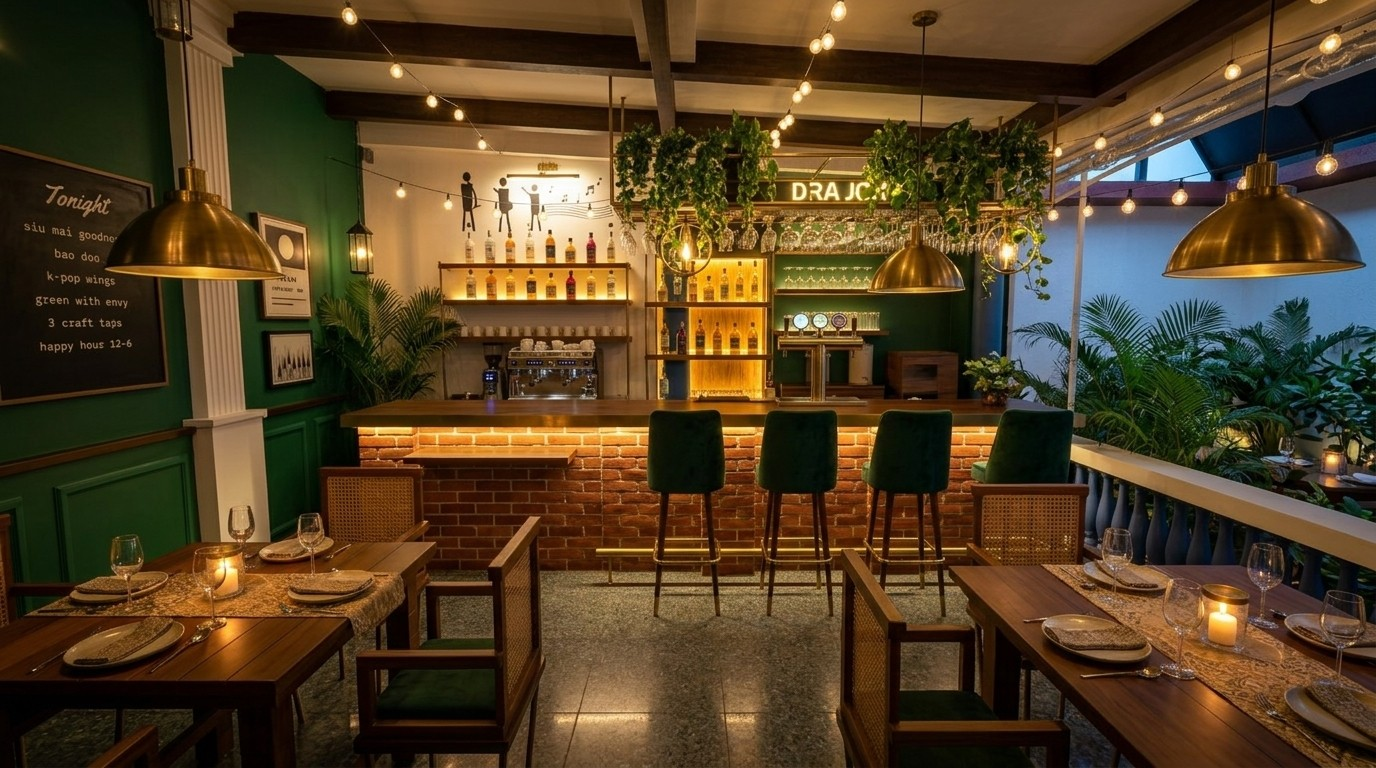
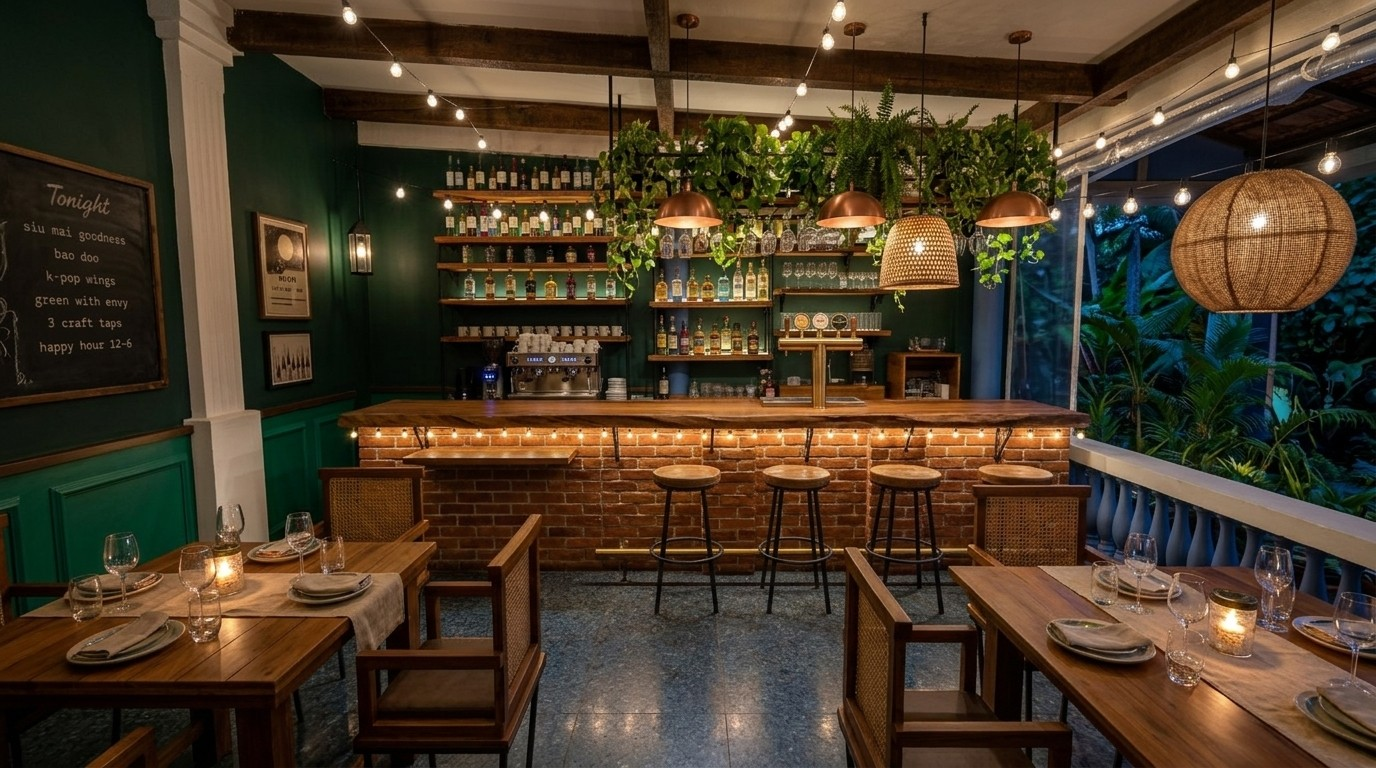
Decor page: bar redone in the garden-bar look (bottle wall, string-lit teak top, copper pendants, server station), new gate render

diff --git a/decor.html b/decor.html
@@ -92,7 +92,7 @@ footer a{color:var(--muted)}
 </div>
 
 <nav class="toc" aria-label="Walk-through">
-  <a href="#gate">Gate</a><a href="#garden">Garden</a><a href="#approach">Approach path</a><a href="#landing">Landing and entrance</a><a href="#wall">Green wall</a><a href="#tv">TV corner</a><a href="#bar">Bar and mural</a><a href="#materials">Materials</a><a href="#care">Built for Goa</a><a href="#next">Next steps</a>
+  <a href="#gate">Gate</a><a href="#garden">Garden</a><a href="#approach">Approach path</a><a href="#landing">Landing and entrance</a><a href="#wall">Green wall</a><a href="#tv">TV corner</a><a href="#bar">Bar</a><a href="#materials">Materials</a><a href="#care">Built for Goa</a><a href="#next">Next steps</a>
 </nav>
 
 <section class="zone" id="gate">
@@ -199,23 +199,23 @@ footer a{color:var(--muted)}
 </section>
 
 <section class="zone" id="bar">
-  <div class="zone-head"><span class="eyebrow">Inside</span><h2>The bar and the mural wall</h2><span class="dim">counter 2.80 m + server station 1.50 m</span></div>
-  <figure><img class="render" src="decor/bar-1.jpg" alt="Exposed red-brick bar counter with a teak top and brass taps, a black-and-white musicians mural on the white wall to its left"></figure>
+  <div class="zone-head"><span class="eyebrow">Inside</span><h2>The bar</h2><span class="dim">counter 2.80 m + server station 1.50 m</span></div>
+  <figure><img class="render" src="decor/bar-1.jpg" alt="The bar at night: brick base, thick teak top on iron brackets with string lights, copper and rattan pendants, a bottle wall on a green wall, server station with an espresso machine"></figure>
   <div class="cols">
     <div>
-      <p class="lede">The bar keeps its brick: the tan ply comes off and the brick is cleaned and sealed. The counter now runs on to the left as a server station with the coffee machine, and the back bar runs with it.</p>
+      <p class="lede">The bar is the hero of the room, styled like a garden bar: the brick base kept and sealed, a thick teak top on iron brackets with lights along its edge, low copper pendants, and a bottle wall on a green wall behind. The counter runs on to the left as a server station with the coffee machine.</p>
       <table class="spec">
         <tr><th>Counter</th><td>Existing red brick, cleaned and sealed with a matt sealer; brick pilasters on the front, brick pier at the open side</td></tr>
-        <tr><th>Top</th><td>Thick dark teak with a brass edge, warm LED under the overhang, brass foot rail</td></tr>
+        <tr><th>Top</th><td>Thick warm teak, 60 mm, on black wrought-iron brackets; a string of small warm Edison bulbs along the front edge; brass foot rail</td></tr>
         <tr><th>Taps</th><td>One brass font with three craft taps</td></tr>
-        <tr><th>Back bar</th><td>Behind the counter and the server station: backlit bottle shelves, glass shelves, cooler and glass-washer, ON TAP board</td></tr>
+        <tr><th>Back bar</th><td>Behind the counter and the server station: a bottle wall of two chunky teak shelves on iron brackets packed with wine, whisky and gin, lit from below; backlit shelves, cooler, glass-washer, ON TAP board</td></tr>
         <tr><th>Server station</th><td>Same brick and teak top for 1.5 m to the left, a pick-up ledge for the servers, cutlery drawers; on the back counter a two-group espresso machine, grinder, cup warmer and POS. 0.7 m staff way in by the wall</td></tr>
-        <tr><th>Above</th><td>Floating brass glass rack with trailing ivy</td></tr>
-        <tr><th>Stools</th><td>Four bottle-green velvet stools with brass footrings</td></tr>
-        <tr><th>Mural</th><td>Existing Sound of Music mural kept as a frieze above the back bar shelves</td></tr>
+        <tr><th>Above</th><td>Low copper dome pendants and rattan lanterns over the counter; floating brass glass rack with trailing ivy</td></tr>
+        <tr><th>Stools</th><td>Four stools with round teak seats on black iron frames with footrings</td></tr>
+        <tr><th>End wall</th><td>The old white mural wall painted bottle green to the ceiling, with the same panelled wainscot as the long wall</td></tr>
       </table>
     </div>
-    <div class="site"><span class="eyebrow">Already on site</span><ul><li>Brick counter on the right half of the end</li><li>White wall with the musicians mural on the left</li></ul></div>
+    <div class="site"><span class="eyebrow">Already on site</span><ul><li>Brick counter on the right half of the end</li><li>White end wall on the left (to be painted green)</li></ul></div>
   </div>
 </section>
 
